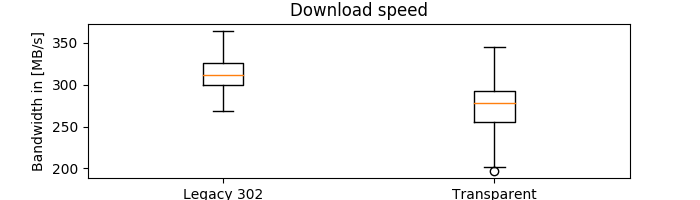
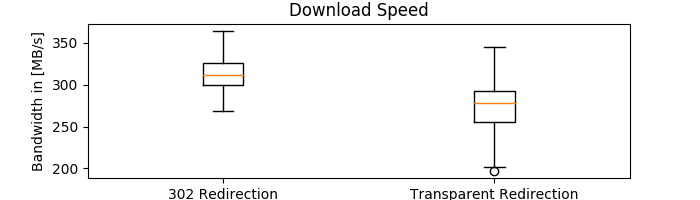
graphs for tsp created

Changed region(s): [[0.57, 0.93, 0.84, 1.0], [0.39, 0.0, 0.63, 0.09], [0.24, 0.93, 0.42, 1.0]]

diff --git a/parser/graphs.py b/parser/graphs.py
@@ -42,7 +42,7 @@ curdir = '/Users/thomas/Projects/dizp/measurements'
 rawfiles = 'raw'
 graphsfolder = 'graphs'
 measurements = ['redirect', 'noredirect']
-labels = ['Legacy 302', 'Transparent']
+labels = ['302 Redirection', 'Transparent Redirection']
 
 data = {}
 ##PARSING PHASE
@@ -54,7 +54,6 @@ for meas in measurements:
         if chunk:
             parsed_meas.append(chunk)
     data[meas] = parsed_meas
-
 
 figsize = (7, 2)
 
@@ -77,7 +76,7 @@ ts_graph_data = getRawStartTransferPair(data)
 ts_graph_data[0] = map(lambda x: x*1000, ts_graph_data[0])
 ts_graph_data[1] = map(lambda x: x*1000, ts_graph_data[1])
 plt.boxplot(ts_graph_data, labels=labels)
-plt.title('Start Transfer delay')
+plt.title('Start Transfer Delay')
 plt.ylabel('Time to first Bytes in [ms]')
 plt.savefig(curdir + '/' + graphsfolder + '/transfer_delay.png')
 plt.close()
@@ -99,6 +98,6 @@ sd_graph_data = getDataTypePair(data, 'speed_download')
 sd_graph_data[0] = map(lambda x: x / 1000000, sd_graph_data[0])
 sd_graph_data[1] = map(lambda x: x / 1000000, sd_graph_data[1])
 plt.boxplot(sd_graph_data, labels=labels, meanline=True)
-plt.title('Download speed')
+plt.title('Download Speed')
 plt.ylabel('Bandwidth in [MB/s]')
 plt.savefig(curdir + '/' + graphsfolder + '/bandwidth.png')
